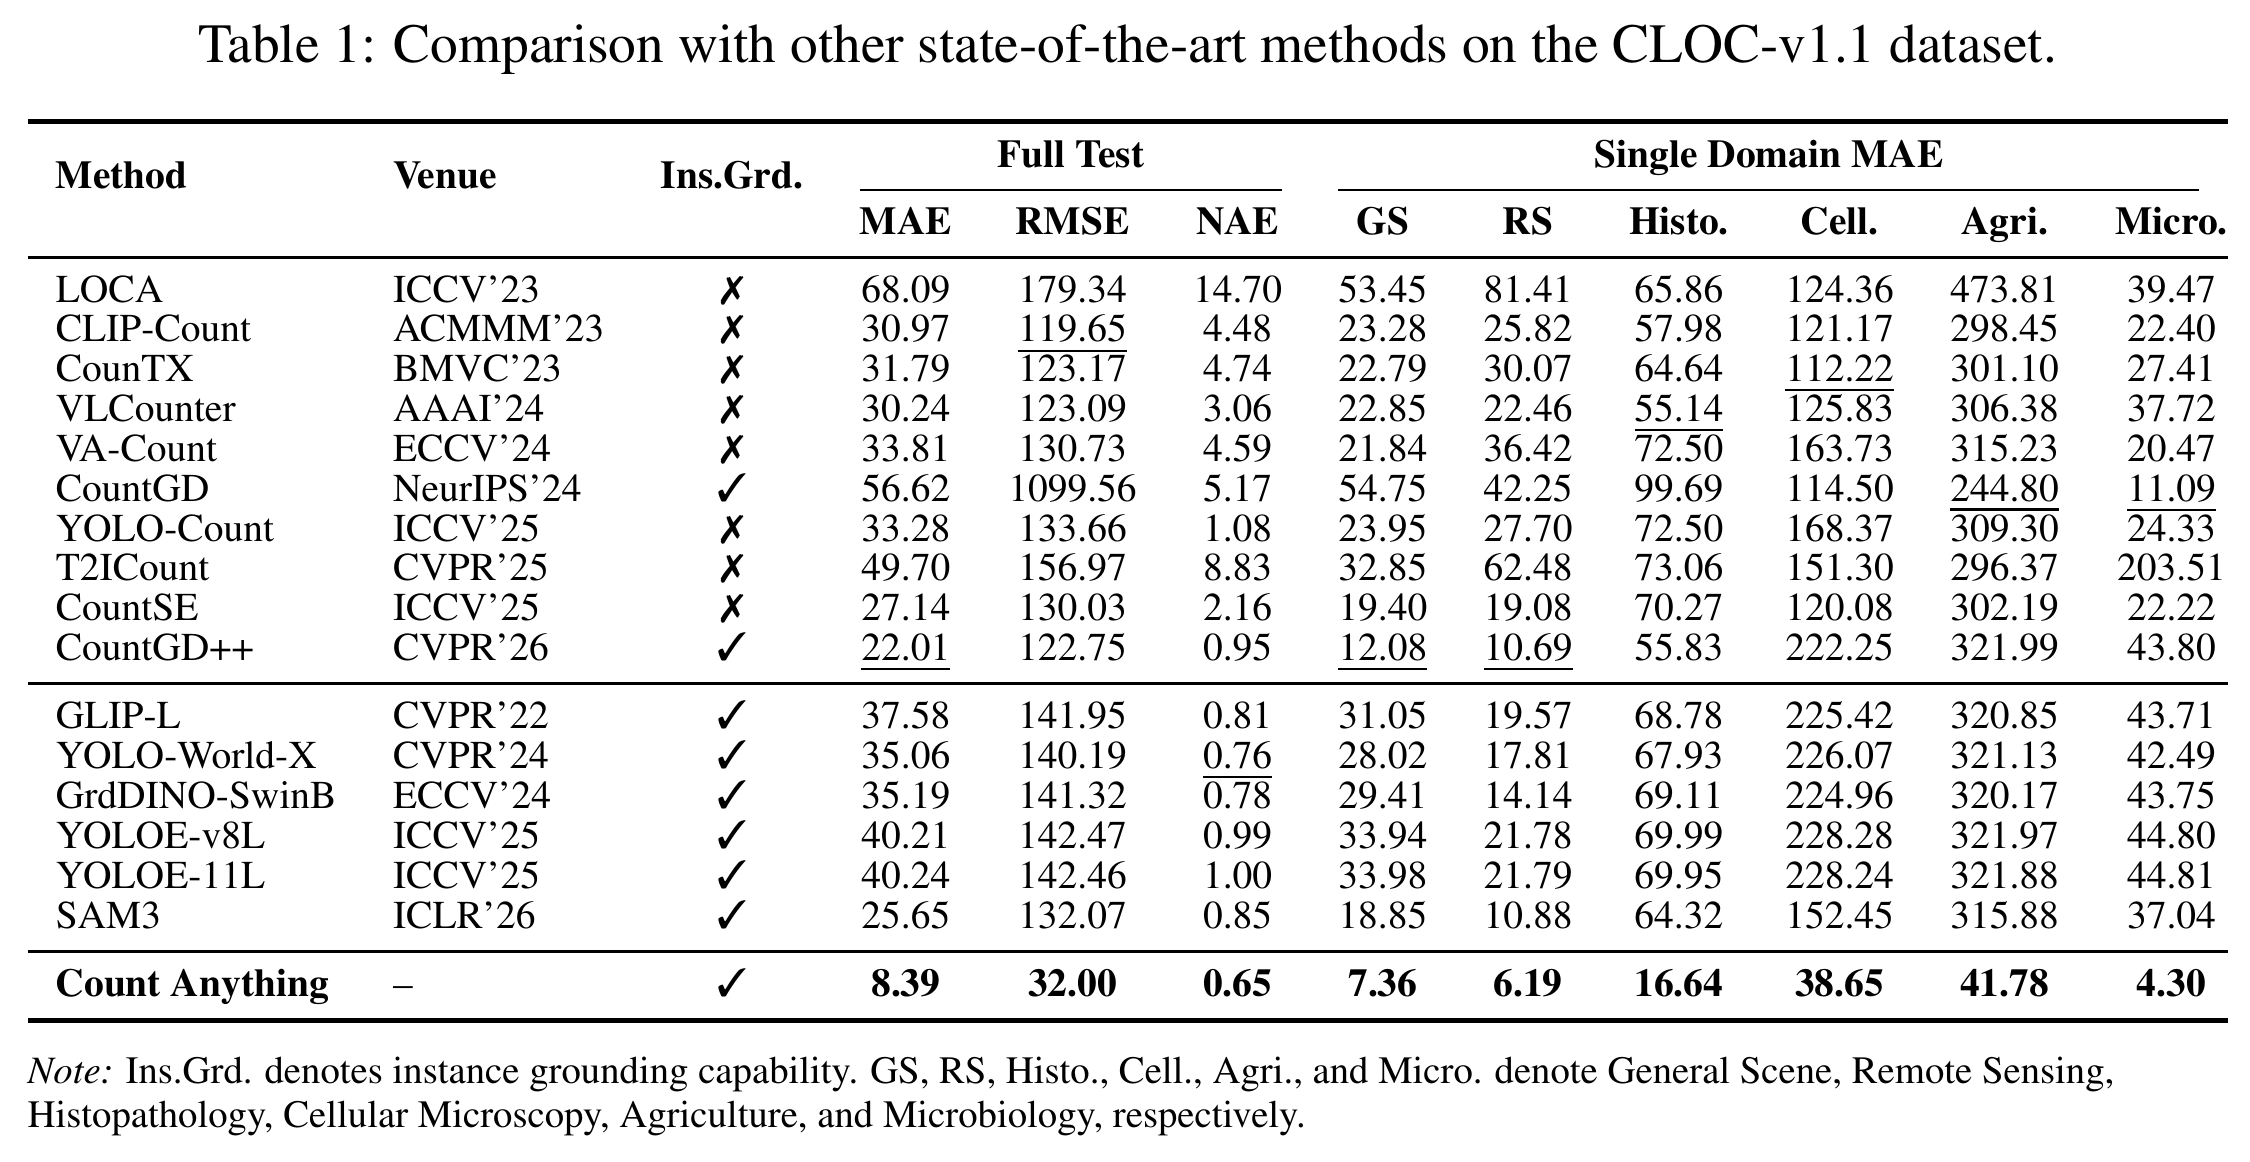
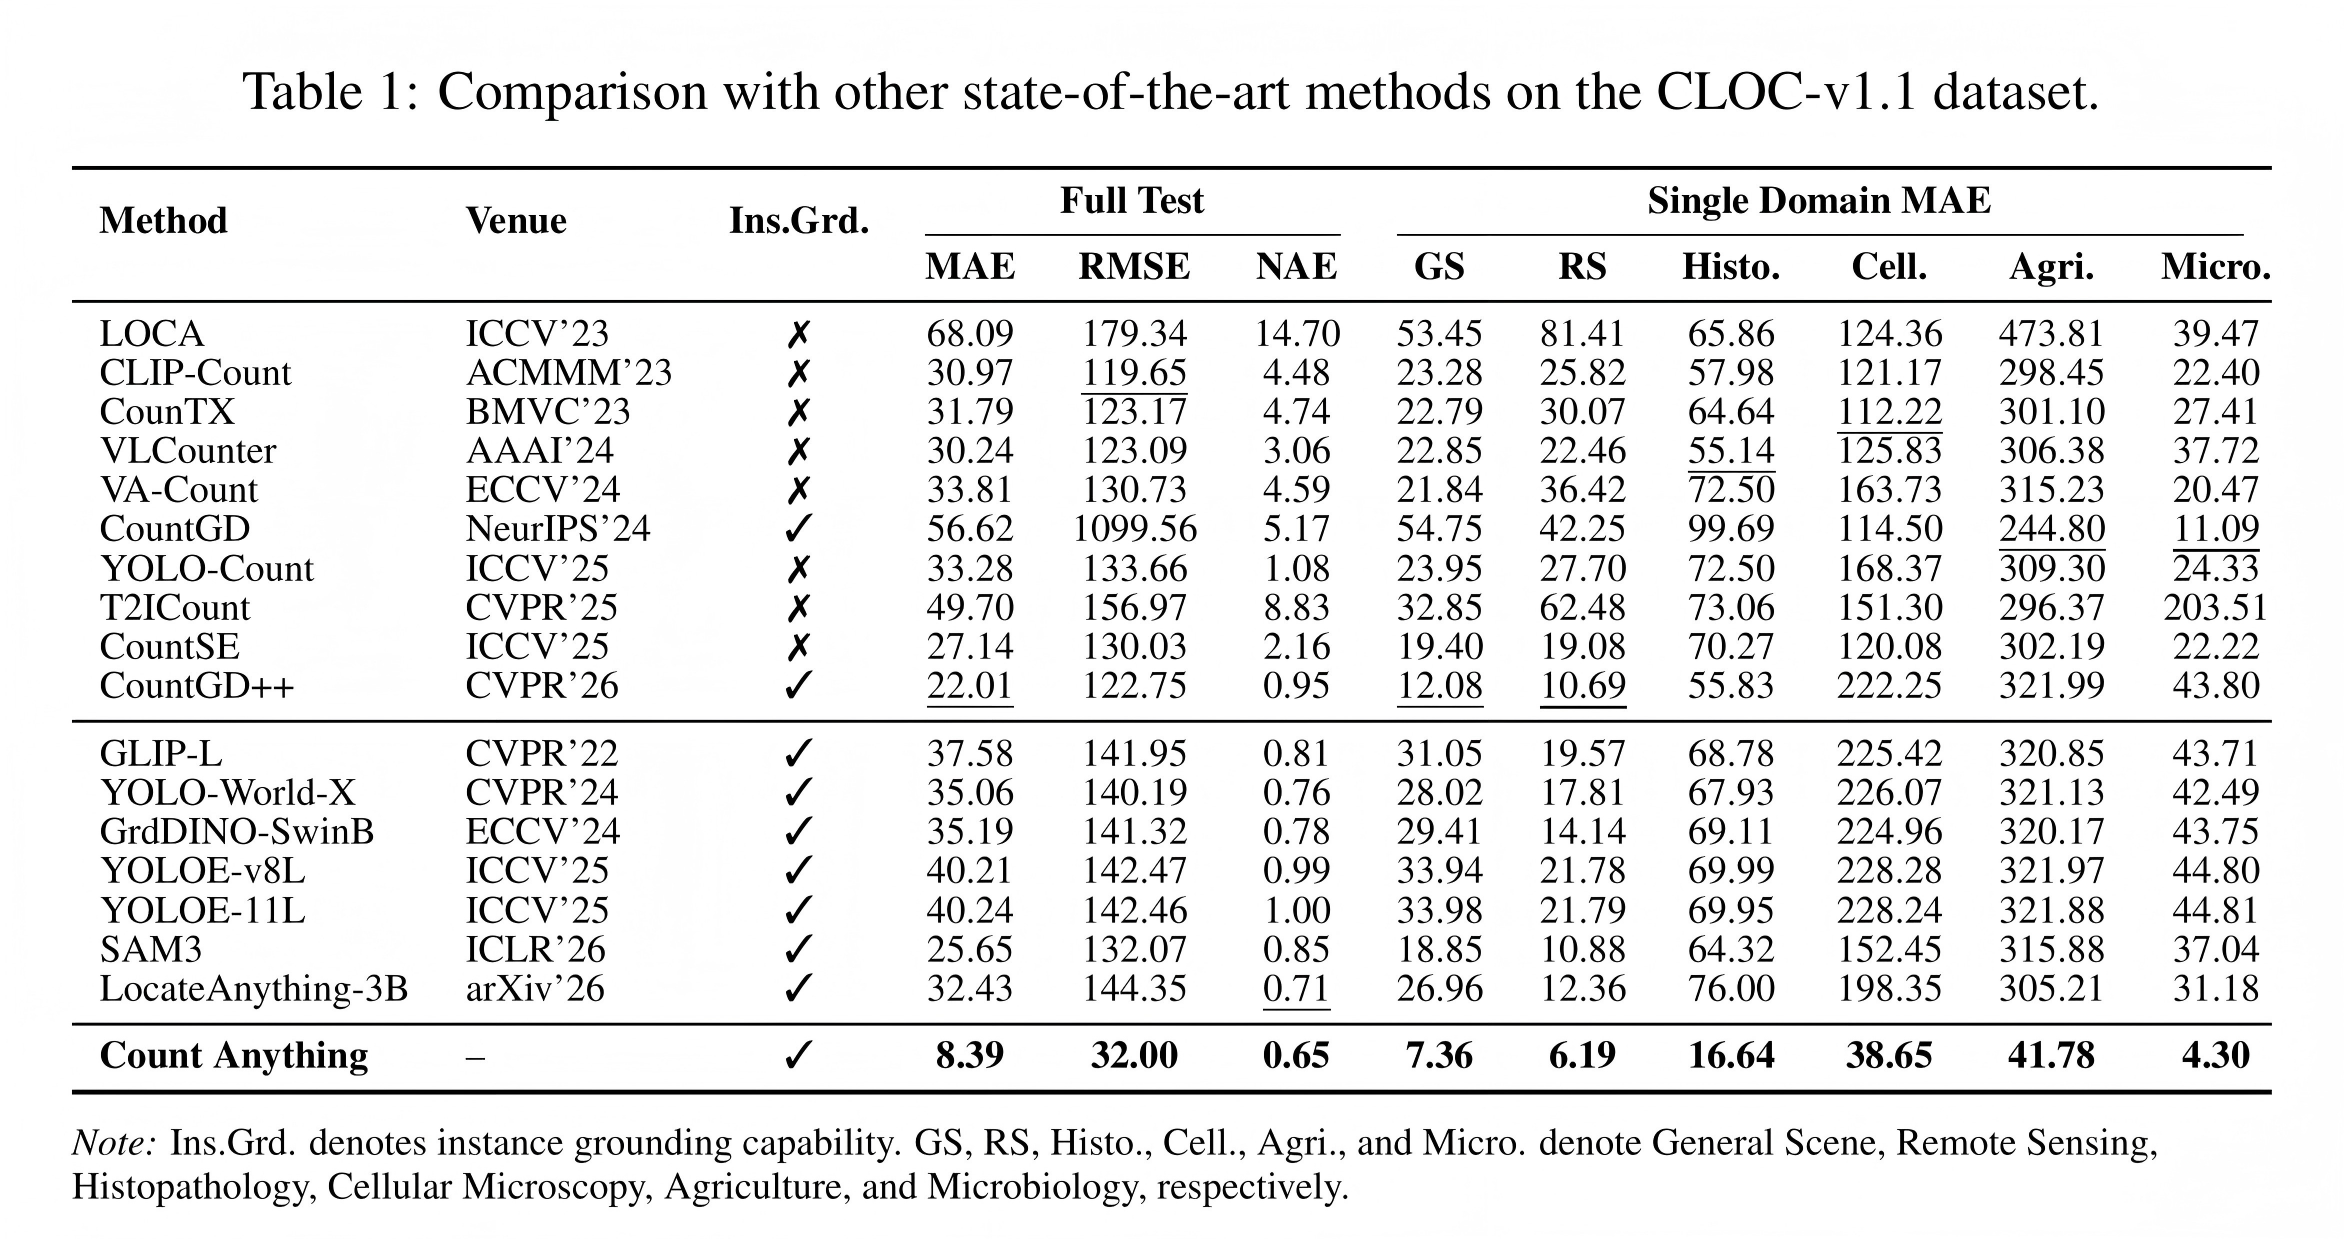
Update CLOC v1.1 LocateAnything results

Changed region(s): [[0.0, 0.0, 0.9956, 0.9914]]

diff --git a/README.md b/README.md
@@ -28,6 +28,7 @@
 
 ## News
 
+- **2026-07-20:** 📊 We added the evaluation results of [LocateAnything-3B](https://huggingface.co/nvidia/LocateAnything-3B) on [CLOC-v1.1](data/README.md#cloc-v11-released). Count Anything continues to substantially outperform it in counting performance across the full test set and all six domains.
 - **2026-07-02:** 🔥 [CLOC-v1.1](data/README.md#cloc-v11-released) is released. Specifically, we conducted a more meticulous manual review of the CLOC Test set annotations, removing or re-annotating a small number of samples with obvious noise to provide a more accurate evaluation of counting performance.
 - **2026-05-29:** 📄 Our paper is available on arXiv: [Count Anything](https://arxiv.org/abs/2605.30846).
 
@@ -56,6 +57,14 @@ This repository introduces **Count Anything**, a generalist model for text-guide
 Count Anything is trained and evaluated on CLOC, which contains about 220K images, 619 categories, and 15M object instances. Extensive experiments show that Count Anything achieves strong counting accuracy and multi-domain generalization, substantially outperforming existing open-world counting methods.
 
 ## Main Results
+
+### CLOC-v1.1
+
+The updated CLOC-v1.1 evaluation includes [LocateAnything-3B](https://huggingface.co/nvidia/LocateAnything-3B), a recent vision-language grounding model supporting open-set and dense multi-object detection in cluttered scenes. Count Anything maintains a substantial lead in counting performance on the full test set and across all six domains.
+
+![CLOC-v1.1 comparison table including LocateAnything-3B](assets/readme/cloc_v1_1_main_results_table.png)
+
+### CLOC
 
 ![Main CLOC comparison table from the paper](assets/readme/main_results_cloc_table.jpg)
 

diff --git a/README_CN.md b/README_CN.md
@@ -28,6 +28,7 @@
 
 ## News
 
+- **2026-07-20:** 📊 我们新增了 [LocateAnything-3B](https://huggingface.co/nvidia/LocateAnything-3B) 在 [CLOC-v1.1](data/README_CN.md#cloc-v11-released) 上的评测结果。相比该模型，Count Anything 在完整测试集和全部六个领域的计数性能上依旧保持显著领先。
 - **2026-07-02:** 🔥 我们发布了 [CLOC-v1.1](data/README_CN.md#cloc-v11-released) 标注更新。具体来说，我们对CLOC Test集标注进行了更细致的人工审查，删除或重新标注了少量具有明显噪声的样本，以提供更准确的计数性能评估。
 - **2026-05-29:** 📄 论文已发布于 arXiv：[Count Anything](https://arxiv.org/abs/2605.30846)。
 
@@ -56,6 +57,14 @@
 Count Anything 在 CLOC 上进行训练与评估。CLOC 包含约 22 万张图像、619 个类别和 1500 万个目标实例。大量实验表明，Count Anything 具备较强的计数准确性和多域泛化能力，并显著优于现有开放世界计数方法。
 
 ## 主要结果
+
+### CLOC-v1.1
+
+更新后的 CLOC-v1.1 评测加入了 [LocateAnything-3B](https://huggingface.co/nvidia/LocateAnything-3B)。该模型是近期提出的视觉语言定位模型，支持开放集合目标检测以及复杂场景中的密集多目标检测。Count Anything 在完整测试集和全部六个领域的计数性能上均保持显著领先。
+
+![包含 LocateAnything-3B 的 CLOC-v1.1 结果对比表](assets/readme/cloc_v1_1_main_results_table.png)
+
+### CLOC
 
 ![论文中的 CLOC 主要结果对比表](assets/readme/main_results_cloc_table.jpg)
 

diff --git a/data/README.md b/data/README.md
@@ -13,7 +13,7 @@ This document explains how to prepare the complete CLOC dataset. We provide all 
 
 We have released the CLOC-v1.1 annotation update. The primary dataset release remains CLOC. In CLOC-v1.1, we manually rechecked part of the CLOC annotations. For annotation records manually confirmed to contain missing labels, incorrect labels, or obvious annotation noise, we removed the affected records or relabeled them to reduce annotation noise. The updated annotation archive is `cloc_annotations_v1.1.zip`; it has been added to the same Google Drive and Baidu Netdisk folders listed below, so it can be downloaded from the same links. To use CLOC-v1.1 annotations, download `cloc_annotations_v1.1.zip` in place of `cloc_annotations.zip`; the augmented-image archive and source-image preparation workflow remain unchanged.
 
-In addition, we re-evaluated all the models on CLOC-v1.1. There are slight changes in the results, but the overall ranking is almost the same as that of the CLOC-v1 version. The specific results are shown in the following table.
+In addition, we re-evaluated all the models on CLOC-v1.1 and added [LocateAnything-3B](https://huggingface.co/nvidia/LocateAnything-3B) to the comparison. Count Anything continues to substantially outperform it in counting performance on the full test set and across all six domains. The updated results are shown below.
 
 <p align="center">
   <img src="../assets/readme/cloc_v1_1_main_results_table.png" alt="CLOC-v1.1 comparison table" width="100%">

diff --git a/data/README_CN.md b/data/README_CN.md
@@ -13,7 +13,7 @@
 
 我们发布了 CLOC-v1.1 标注更新。主数据集仍为 CLOC。在 CLOC-v1.1 中，我们对部分 CLOC 标注进行了人工复查；对于人工确认存在漏标、错标或明显标注噪声的标注记录，我们进行了移除或重新标注，以减少标注噪声。更新后的标注包为 `cloc_annotations_v1.1.zip`，已添加到下方原有的 Google Drive 和百度网盘下载链接中，可通过同一组链接下载。如需使用 CLOC-v1.1 标注，请下载 `cloc_annotations_v1.1.zip` 替代 `cloc_annotations.zip`；增强图片包和源图片准备流程保持不变。
 
-另外，我们在CLOC-v1.1上重新评估了所有的模型，结果有轻微改变，但整体排名和CLOC-v1版本的几乎一致。具体结果如下表所示。
+另外，我们在 CLOC-v1.1 上重新评估了所有模型，并在对比中加入了 [LocateAnything-3B](https://huggingface.co/nvidia/LocateAnything-3B)。相比该模型，Count Anything 在完整测试集和全部六个领域的计数性能上依旧保持显著领先。更新后的结果如下表所示。
 
 <p align="center">
   <img src="../assets/readme/cloc_v1_1_main_results_table.png" alt="CLOC-v1.1 对比表" width="100%">
